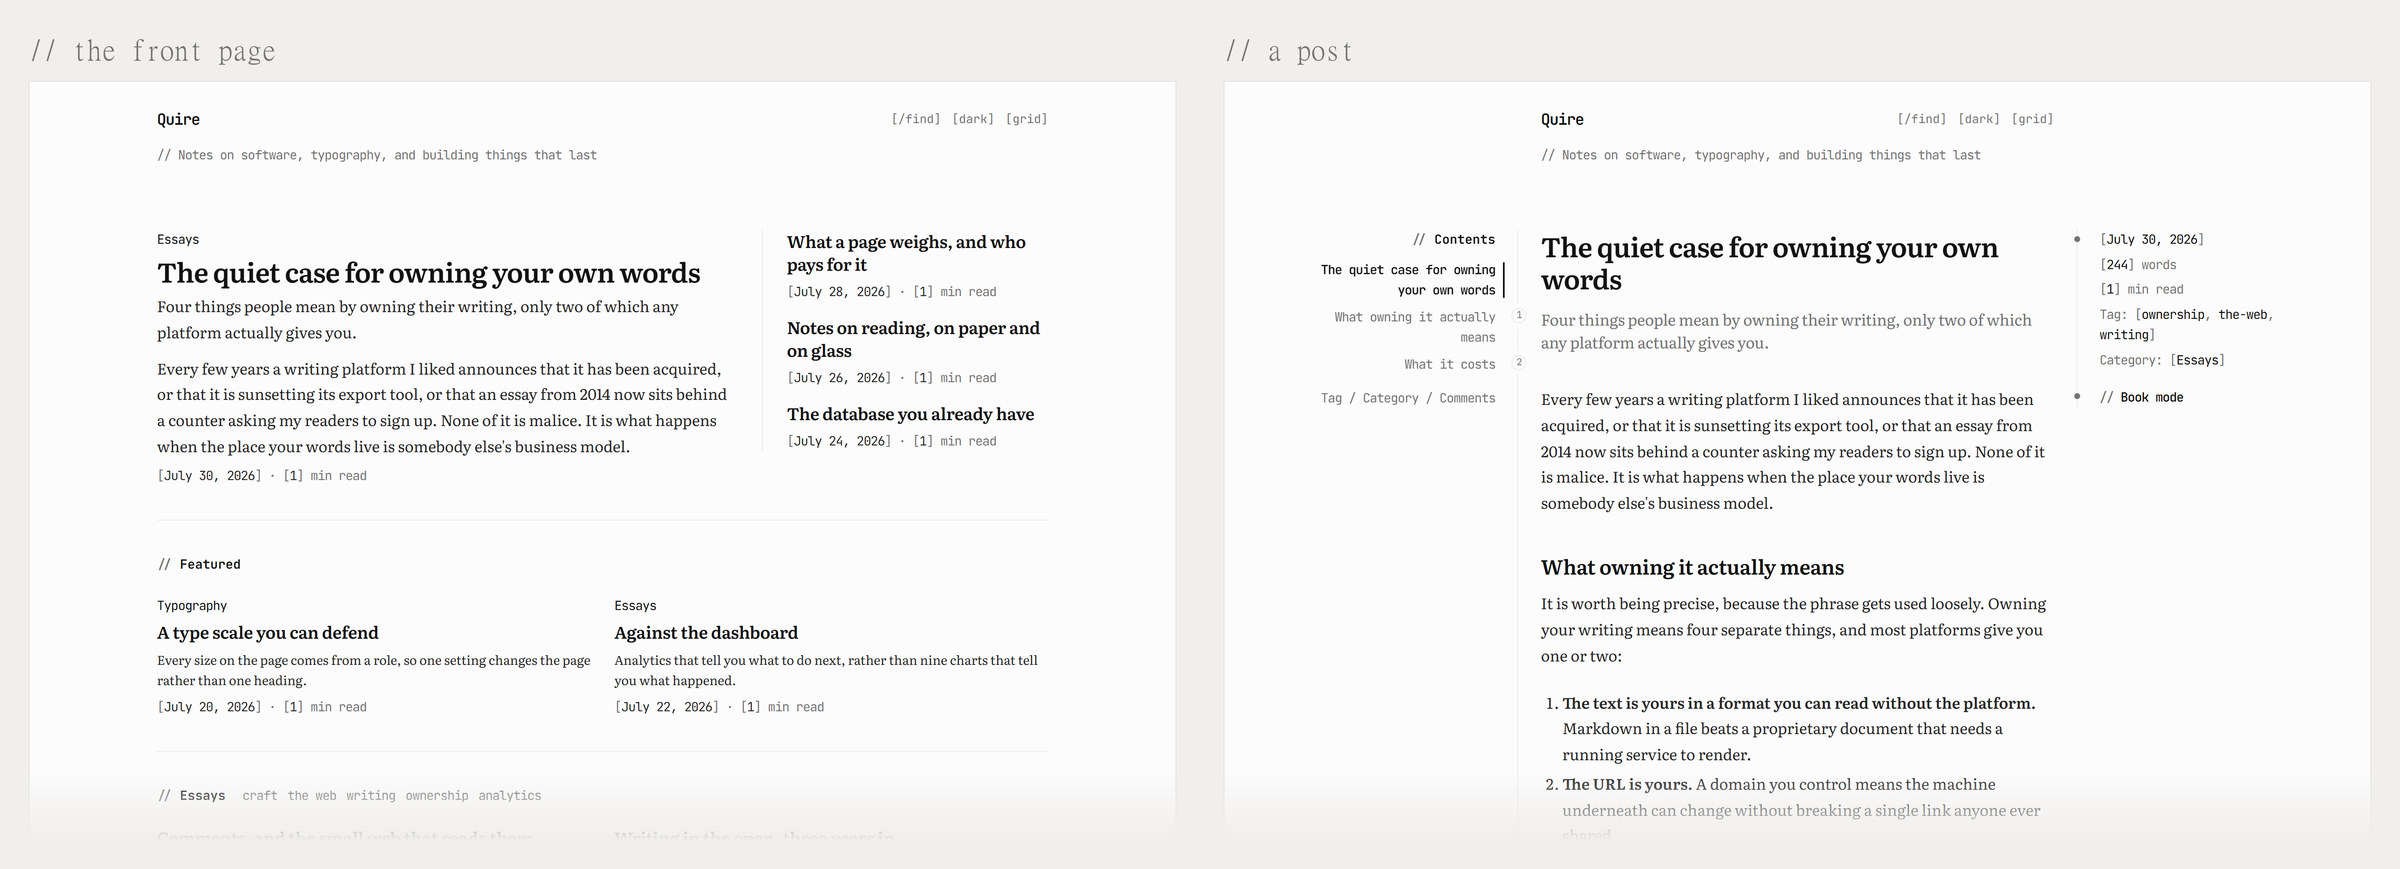
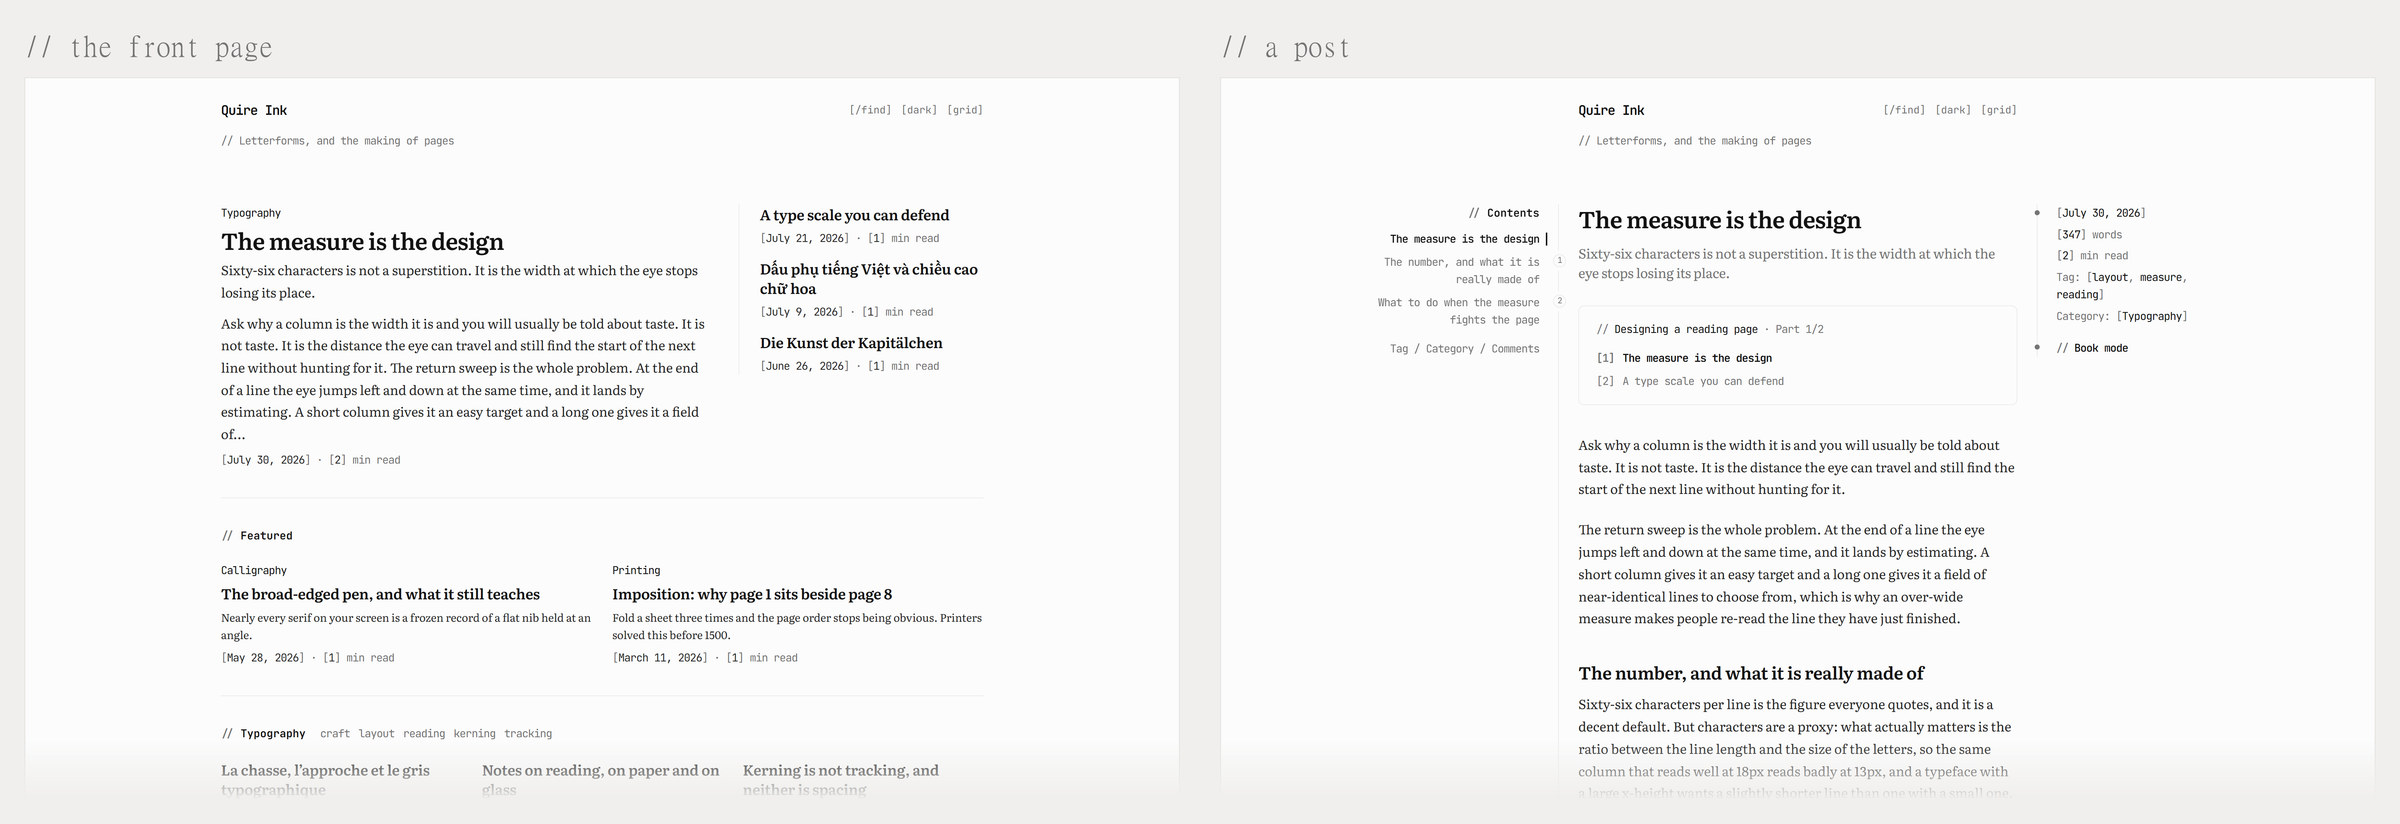
Point the world at demo.quireink.com, and reshoot the README against the site that exists

diff --git a/src/types.ts b/src/types.ts
@@ -176,7 +176,7 @@ export type SiteSettings = {
   language: SiteLang // public site language: drives lang attr, font, labels, dates
   title: string
   description: string
-  siteUrl: string // canonical base URL (e.g. https://manhhung.me); '' -> derive from env
+  siteUrl: string // canonical base URL (e.g. https://example.com); '' -> derive from env
   logoUrl: string // '' when no logo — the ALWAYS-kept original source the owner picked
   logoWidth: number // px, horizontal width of the logo in the header
   logoRenderUrl: string // derived, display-sized WebP (2x for retina) generated from logoUrl at logoWidth; '' = serve original (vector/animated, or none). Regenerated + old one deleted whenever logoUrl/logoWidth change

diff --git a/src/utils.ts b/src/utils.ts
@@ -89,7 +89,7 @@ export function deriveExcerpt(markdown: string, maxWords = 50): string {
 // All image URLs referenced in a piece of (rendered) content: markdown
 // `![](url)`, HTML `src="url"`, and bare image URLs. De-duped, in order. Used for
 // image SEO (sitemap `<image:image>` + Article schema) so search engines associate
-// every image with the manhhung.me page that embeds it. Expects absolute URLs
+// every image with the page that embeds it. Expects absolute URLs
 // (content from getPost/getPage is already expanded to absolute Blob URLs).
 export function extractImageUrls(content: string): string[] {
   // Match absolute (https://…) AND root-relative (/uploads/media/…) image URLs — self-

diff --git a/src/admin/components/SeoFields.tsx b/src/admin/components/SeoFields.tsx
@@ -35,7 +35,7 @@ export function SeoFields({ s, update }: Props) {
           label={t.seoCanonical}
           value={s.siteUrl}
           onChange={(e) => update({ siteUrl: e.target.value })}
-          placeholder="https://manhhung.me"
+          placeholder="https://example.com"
         />
         <p className="text-xs text-neutral-400 dark:text-neutral-500">{t.seoCanonicalHint}</p>
       </div>

diff --git a/README.vi.md b/README.vi.md
@@ -17,11 +17,13 @@ Một tiến trình, hai tệp SQLite, không có tài khoản đám mây nào t
 
 [English](./README.md) · **Tiếng Việt**
 
-[**Bản chạy thật**](https://manhhung.me) · [**Cài đặt**](#cài-đặt) · [**Số đo**](#nhanh-và-đây-là-số-đo) · [**Giao cho agent**](#để-ai-agent-viết-và-đăng-bài-mcp) · [**Kiến trúc**](./docs/spec/02-structure.md) · [**Changelog**](./CHANGELOG.md) · [**Giấy phép**](#giấy-phép)
+[**Bản demo**](https://demo.quireink.com) · [**Cài đặt**](#cài-đặt) · [**Số đo**](#nhanh-và-đây-là-số-đo) · [**Giao cho agent**](#để-ai-agent-viết-và-đăng-bài-mcp) · [**Kiến trúc**](./docs/spec/02-structure.md) · [**Changelog**](./CHANGELOG.md) · [**Giấy phép**](#giấy-phép)
 
 <br/>
 
 <img src="docs/demo.jpg" alt="Hai ảnh chụp cạnh nhau: trang chủ dạng báo với bài dẫn và các hàng chuyên mục, và trang bài viết của cùng site với cột mục lục bên trái" width="960">
+
+<sub>**[demo.quireink.com](https://demo.quireink.com)** chạy đúng bản này, đặt lại mỗi tháng, không cần đăng nhập và không phải điền gì. Thanh dưới đáy chuyển qua lại giữa trang chủ dạng báo, danh sách, một bài viết, chế độ sách, hai bảng màu và trang quản trị. Thanh đó không thuộc sản phẩm: trang demo chạy nguyên mã nguồn bên dưới, nên nó luôn là bản mới nhất và không có nhánh preview nào phải giữ cho khớp.</sub>
 
 </div>
 
@@ -47,7 +49,8 @@ Ba điểm khiến nó khác những lựa chọn quen thuộc:
 nhân, sở thích, học tập và phi lợi nhuận. Bạn được đọc, sửa, chạy, fork. Dùng cho mục đích
 thương mại cần giấy phép riêng, thường là rẻ hoặc miễn phí, cứ hỏi.
 
-> **2.0.0 là bản ổn định**, phát hành 30/07/2026 và đang chạy bản demo ở trên. Trước đó là một
+> **2.0.0 là bản ổn định**, phát hành 30/07/2026, đang chạy bản demo ở trên và blog riêng của
+> tác giả tại [manhhung.me](https://manhhung.me). Trước đó là một
 > đợt audit đầy đủ về thiết kế, hiệu năng và tính đúng đắn, làm bằng cách **đo site đang chạy**
 > chứ không phải đọc mã nguồn. Mọi thay đổi nằm trong [changelog](./CHANGELOG.md).
 
@@ -74,7 +77,7 @@ thương mại cần giấy phép riêng, thường là rẻ hoặc miễn phí,
 
 <img src="docs/demo-reading.jpg" alt="Chế độ sách: trình đọc hai cột toàn màn hình trên nền giấy, có chữ cái đầu lớn và số trang, bên cạnh là một bài viết ở giao diện tối" width="960">
 
-<sub>Chế độ sách và giao diện tối. Cả hai đều là chính hệ typography của trang đọc, không phải một lớp lọc phủ lên.</sub>
+<sub>Chế độ sách và giao diện tối. Cả hai đều là chính hệ typography của trang đọc, không phải một lớp lọc phủ lên. Font đi kèm được subset cho latin, latin-ext và vietnamese, nên khối mẫu chữ bên trái vẫn hiển thị bằng font đọc chứ không rơi về font hệ thống.</sub>
 
 </div>
 
@@ -108,7 +111,7 @@ thoại phải trả:
 
 <div align="center">
 
-<img src="docs/demo-mobile.jpg" alt="Ba màn hình điện thoại: danh sách bài, một bài viết, và lớp tìm kiếm tức thì đang hiện chín tựa bài khớp" width="960">
+<img src="docs/demo-mobile.jpg" alt="Ba màn hình điện thoại: danh sách bài, một bài viết, và lớp tìm kiếm tức thì đang hiện bảy tựa bài khớp" width="960">
 
 <sub>Không có con số nào ở trên là để lấy điểm benchmark. Chúng dành cho người đọc trên chiếc điện thoại bốn năm tuổi chỉ muốn đọc bốn trăm chữ.</sub>
 
@@ -142,7 +145,7 @@ Bạn cần [Bun](https://bun.sh) 1.3 trở lên và một máy có thể trỏ 
 ```bash
 git clone https://github.com/joiha-steven/quireink.git && cd quireink
 bun install
-bun run build:assets                # đóng gói island + trang quản trị
+bun run build:assets && bun run build:admin     # island, rồi tới SPA quản trị
 DATA_DIR=./data SITE_URL=https://example.com bun src/index.ts
 ```
 
@@ -243,6 +246,7 @@ Nội dung của bạn nằm trong `DATA_DIR` và thư mục uploads, không bao
 
 ```bash
 bun install
+bun run build:admin                 # một lần, và mỗi khi src/admin đổi
 bun run dev                         # http://localhost:3000
 bun run user create --username me --email me@example.com   # rồi đăng nhập ở /login
 ```

diff --git a/README.md b/README.md
@@ -17,11 +17,13 @@ One process, two SQLite files, no cloud account anywhere in the path.
 
 **English** · [Tiếng Việt](./README.vi.md)
 
-[**Live demo**](https://manhhung.me) · [**Install**](#install) · [**The numbers**](#fast-and-here-are-the-numbers) · [**Let an agent run it**](#let-an-ai-agent-write-and-publish-mcp) · [**How it works**](./docs/spec/02-structure.md) · [**Changelog**](./CHANGELOG.md) · [**License**](#license)
+[**Live demo**](https://demo.quireink.com) · [**Install**](#install) · [**The numbers**](#fast-and-here-are-the-numbers) · [**Let an agent run it**](#let-an-ai-agent-write-and-publish-mcp) · [**How it works**](./docs/spec/02-structure.md) · [**Changelog**](./CHANGELOG.md) · [**License**](#license)
 
 <br/>
 
 <img src="docs/demo.jpg" alt="Two screenshots side by side: a composed front page with a lead story and section rows, and the same site's article page with a contents rail and a meta column" width="960">
+
+<sub>**[demo.quireink.com](https://demo.quireink.com)** runs this build, reset monthly, with no sign-in and nothing to fill in. A bar along the bottom switches between the front page, the list, an article, book mode, both palettes and the admin. That bar is not part of the product: the demo runs the code below unmodified, so it is always the latest build and there is no preview branch to keep in step.</sub>
 
 </div>
 
@@ -47,7 +49,8 @@ Three things make it different from the obvious alternatives:
 educational and nonprofit use. Read it, change it, run it, fork it. Commercial use needs a
 separate licence, and it is usually cheap or free, so ask.
 
-> **2.0.0 is stable**, released 2026-07-30 and running the demo above. It followed a full
+> **2.0.0 is stable**, released 2026-07-30, running the demo above and the author's own blog
+> at [manhhung.me](https://manhhung.me). It followed a full
 > audit of design, performance and correctness done by measuring the running site rather than
 > reading the source. Everything that changed is in the [changelog](./CHANGELOG.md).
 
@@ -74,7 +77,7 @@ separate licence, and it is usually cheap or free, so ask.
 
 <img src="docs/demo-reading.jpg" alt="Book mode, a fullscreen two-column reader on paper with a drop cap and a page count, beside an article in the dark theme" width="960">
 
-<sub>Book mode and the dark theme. Both are the reading typography itself, not a filter laid over it.</sub>
+<sub>Book mode and the dark theme. Both are the reading typography itself, not a filter laid over it. The bundled fonts are subset for latin, latin-ext and vietnamese, so the specimen on the left is set in the reading face rather than falling back.</sub>
 
 </div>
 
@@ -107,7 +110,7 @@ on a phone actually pays:
 
 <div align="center">
 
-<img src="docs/demo-mobile.jpg" alt="Three phone screens: the post list, an article, and the instant search overlay showing nine matching titles" width="960">
+<img src="docs/demo-mobile.jpg" alt="Three phone screens: the post list, an article, and the instant search overlay showing seven matching titles" width="960">
 
 <sub>None of that is for a benchmark. It is for the reader on a four-year-old phone who wanted four hundred words.</sub>
 
@@ -142,7 +145,7 @@ the whole list.
 ```bash
 git clone https://github.com/joiha-steven/quireink.git && cd quireink
 bun install
-bun run build:assets                # bundles the islands + the admin
+bun run build:assets && bun run build:admin     # the islands, then the admin SPA
 DATA_DIR=./data SITE_URL=https://example.com bun src/index.ts
 ```
 
@@ -244,6 +247,7 @@ server-side. Your content lives in `DATA_DIR` and the uploads directory, never i
 
 ```bash
 bun install
+bun run build:admin                 # once, and again whenever src/admin changes
 bun run dev                         # http://localhost:3000
 bun run user create --username me --email me@example.com   # then sign in at /login
 ```

diff --git a/state/WORKLOG.md b/state/WORKLOG.md
@@ -7,6 +7,33 @@ Older entries roll into [`worklog/`](worklog/2026-07-quire-2-rewrite.md) when th
 passes its size cap. Rolling is a move, never a rewrite.
 
 
+## 2026-07-31 — The demo is the front door, and the README shows the site that exists
+
+`demo.quireink.com` is live, so it replaces `manhhung.me` as the "Live demo" link in both
+READMEs and as the repository's homepage. `manhhung.me` is still named, once, as the
+author's own instance; it is no longer the thing a stranger is sent to.
+
+The demo carries none of this. It runs the tagged build unmodified, and its preview bar and
+read-only edge live in a separate private repo (`joiha-steven/quireink-demo`) as one CSS file,
+one JS file and an nginx vhost. Nothing in this repository knows the demo exists.
+
+Also swept: `manhhung.me` out of the `Required Notice:` line, the SEO canonical placeholder
+and two code comments, since a product's example URL should not be one person's blog. The
+`open-source` GitHub topic is gone and `source-available` replaces it, which is what
+PolyForm Noncommercial actually is.
+
+**All four README plates were reshot.** The fixture was rewritten earlier the same day and
+the images still showed posts that no longer exist, under the old site title. Two real
+errors turned up on the way:
+
+- **The README's install block ran `build:assets` alone**, with a comment claiming it also
+  bundled the admin. It does not — `build:admin` is a separate script, and `docs/self-host.md`
+  and the Dockerfile both run the pair. Anyone following the README got a server whose
+  `/admin` was an empty page. Fixed in both languages, including the develop block.
+- **The editor route is `/admin/editor/<slug>`, not `/<id>`.** The first pass shot `Not found`
+  and composed it into the plate. Caught by looking at the image, which is the only thing
+  that catches it.
+
 ## 2026-07-31 — The product is Quire Ink (ADR 0016)
 
 `quireink.com` is bought: `demo.quireink.com` will be a public demo instance so `manhhung.me`

diff --git a/state/audits/README.md b/state/audits/README.md
@@ -1,6 +1,6 @@
 # Audit log + procedure
 
-Comprehensive review records for Quire Blog. Each pass checks the whole project for
+Comprehensive review records for Quire Ink. Each pass checks the whole project for
 tech / security / performance / logic / layout / docs issues, fixes what it finds,
 and is written up here as a dated report. This folder is the memory of "what was
 checked, when, and the verdict" so a later pass starts from the last clean line.
